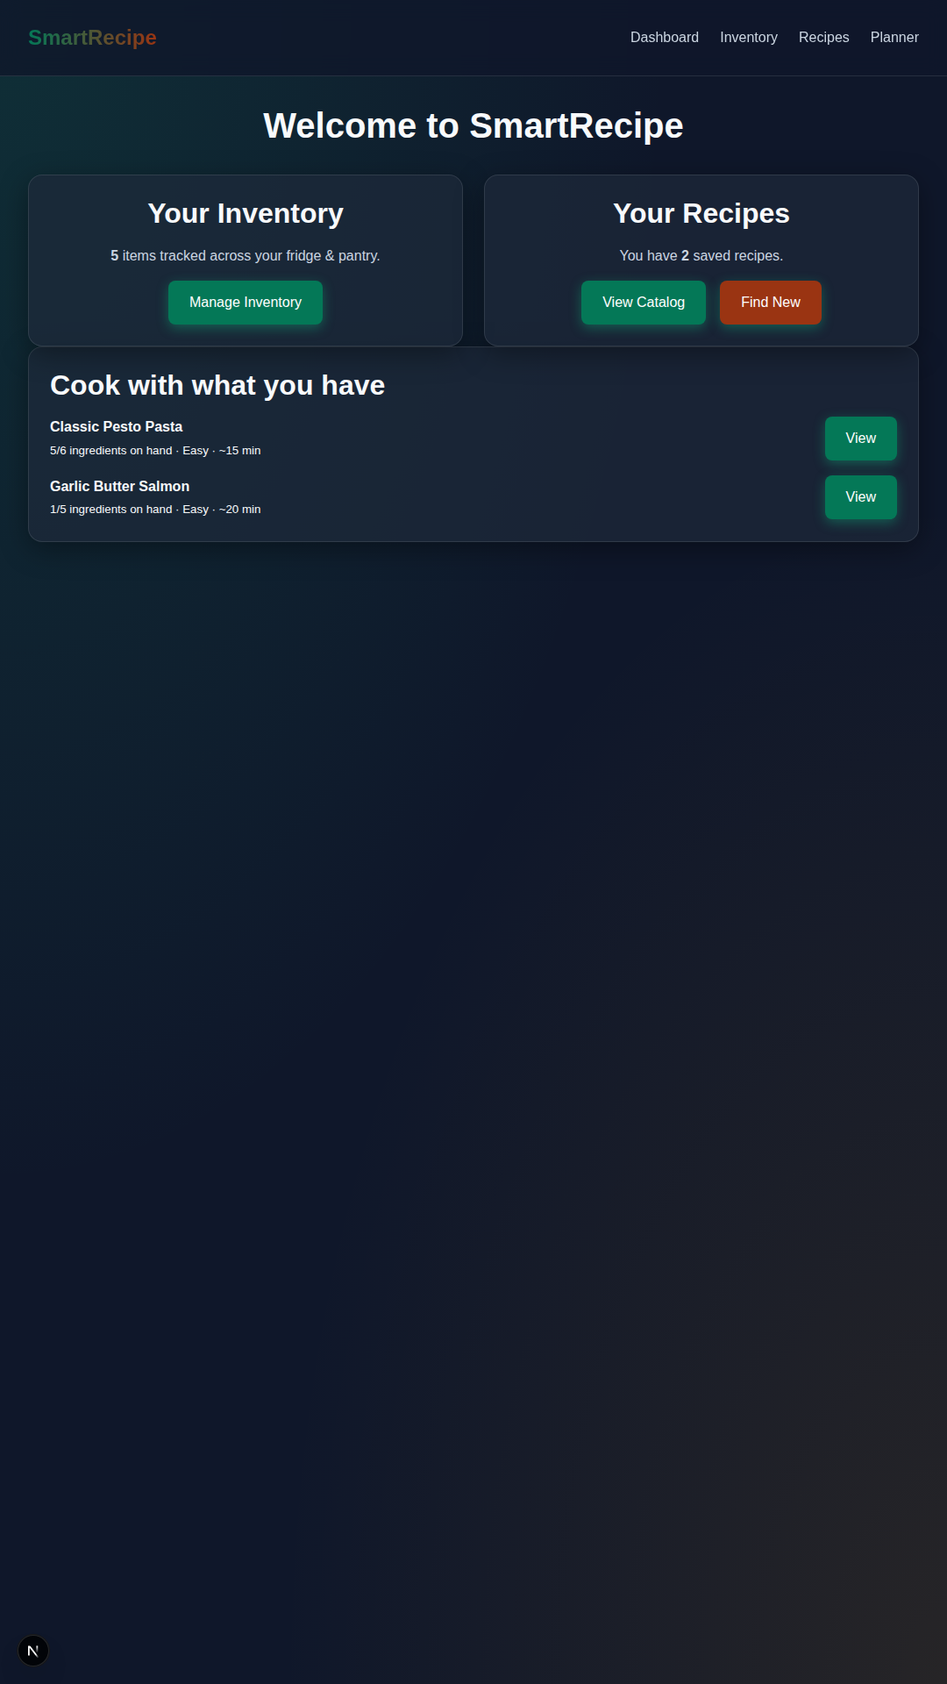
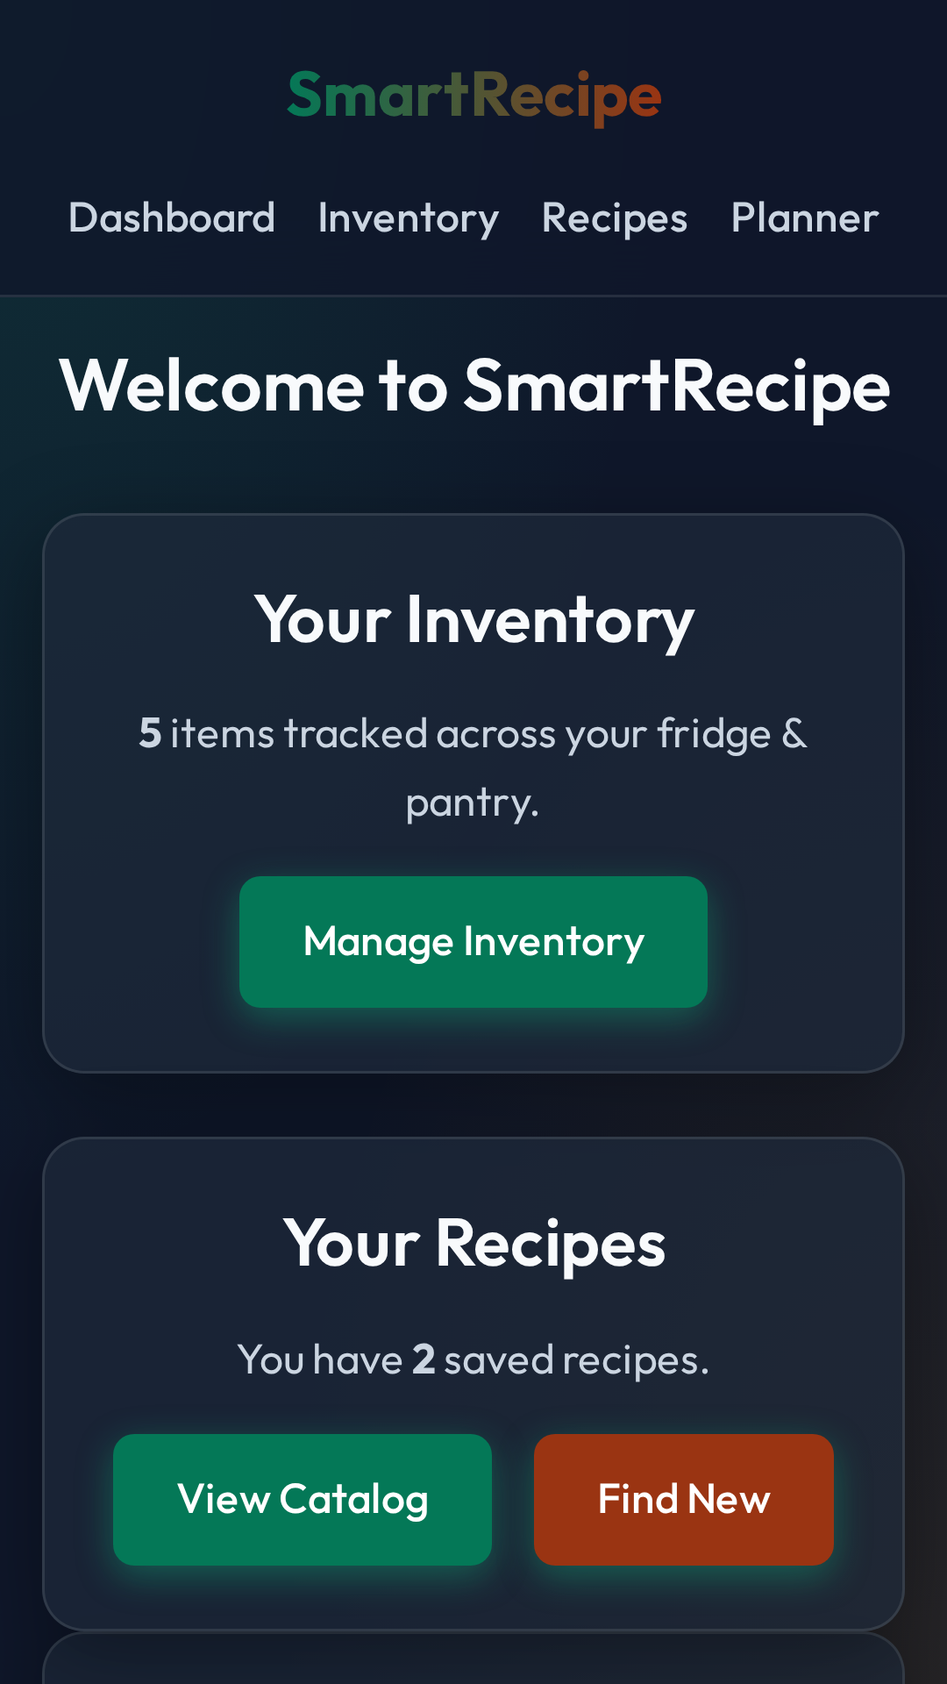
smart-recipe-app: prepare the first Google Play release
- Owner-only release checklist at the top of PLAY-STORE-DEPLOY.md (keystore, 4 secrets, Play Console intake, closed test, 12 testers x 14 days, production), plus a 2026-11-02 audit section: checks rerun, Google's closed-testing rule as its help page states it today, and the minimum-functionality review-risk verdict.
- Fix the WebView backup exclusion: domain="root", not "file" (same fix elder-care-planner already has).
- _android-bundle.yml: add a secret_suffix input so an app signs with its own ANDROID_*_<APP> secrets, as the deploy guide documents; Smart Recipe's trigger passes _SMART_RECIPE_APP. Since the 2026-10-14 consolidation every app read the unsuffixed (MoodDiner) names, so the documented per-app secrets would have produced an unsigned bundle.
- Store listing: drop the "edit" claim (no edit UI); rewrite the Data safety answer with a recommended in-app-search-history declaration. Privacy policy: drop "recipes you write yourself", add the result-photo requests.
- Recapture the screenshots from the Capacitor build at a phone viewport (old set was next dev at desktop width, with the dev-tools badge); add store-listing/capture-screenshots.mjs and a 5th search screenshot.

Verified locally: harness-status --gate, harness-learn, check-doc-claims --gate, check-loop-stats, check-peer-consistency all exit 0; test-app.mjs smart-recipe-app ALL PASSED (Vitest 56/56, Playwright 7/7); npm run build:capacitor exit 0.

diff --git a/projects/smart-recipe-app/public/privacy.html b/projects/smart-recipe-app/public/privacy.html
@@ -32,7 +32,7 @@
   <body>
     <main>
       <h1>Smart Recipe Privacy Policy</h1>
-      <p class="updated">Last updated: 7 August 2026</p>
+      <p class="updated">Last updated: 2 November 2026</p>
 
       <div class="summary">
         <p style="margin:0">
@@ -74,7 +74,7 @@
             </tr>
             <tr>
               <td><code>smart_recipe_recipes</code></td>
-              <td>Recipes you've saved, including any pulled in from a search and any you write yourself.</td>
+              <td>Recipes you've saved, including the two sample recipes the app starts with.</td>
             </tr>
             <tr>
               <td><code>smart_recipe_meal_plan</code></td>
@@ -85,7 +85,7 @@
       </div>
 
       <h2>Third-party connections</h2>
-      <p>The app has no analytics and no ad networks. One thing reaches the network, only when you run a recipe search:</p>
+      <p>The app has no analytics and no ad networks. Only the recipe search reaches the network, and only when you use it:</p>
       <ul>
         <li>
           <strong>Recipe search</strong> sends the search text you type to TheMealDB
@@ -93,6 +93,12 @@
           <a href="https://www.themealdb.com/api.php" rel="noopener noreferrer">TheMealDB's API terms</a>.
           No inventory, saved recipes, or meal plan data is sent with the request — only
           the search text.
+        </li>
+        <li>
+          <strong>Search result photos</strong> are loaded from TheMealDB's image server
+          while you look at search results. Like any image on the web, that request
+          includes your device's IP address and browser details; it carries no app data.
+          Saved recipes are shown without photos, so viewing them makes no request.
         </li>
       </ul>
 

diff --git a/PLAY-STORE-DEPLOY.md b/PLAY-STORE-DEPLOY.md
@@ -1,8 +1,71 @@
 # Play Store Deployment Guide — All 5 Android Apps
 
-> **Status: last audited 2026-08-20.** Everything that lives in this repository
-> is in place and gate-green. The remaining blockers (keystore secrets, Play
-> Console intake) are external and covered in [§3 – The CI workflow](#3-the-ci-workflow-the-path-we-chose).
+> **Status: Smart Recipe re-audited 2026-11-02 and chosen to ship first** (see §0 and §6). The
+> other four apps were last audited 2026-08-20. The remaining blockers (keystore, secrets, Play
+> Console, testers) are owner-only.
+
+## 0. Smart Recipe first release — owner-only checklist
+
+Agents must not do any of these steps: they create or handle signing keys, GitHub secrets, or the
+Play Console account. Do them in order. Commands assume a shell in a folder outside the repo, so the
+keystore never lands in the working tree.
+
+1. **Create the upload keystore** (any machine with a JDK; it prompts for a password — use one
+   password for both prompts and store it in your password manager). Back up the `.jks` file
+   somewhere safe; it is the only key that can sign Smart Recipe updates.
+   ```bash
+   keytool -genkeypair -v -keystore smart-recipe-upload.jks -alias upload -keyalg RSA -keysize 2048 -validity 10000 -dname "CN=Smart Recipe, OU=Mobile, O=Agentic App Harness, C=US"
+   ```
+2. **Add the 4 GitHub secrets** (the two password commands prompt; paste the keystore password):
+   ```bash
+   base64 -w0 smart-recipe-upload.jks | gh secret set ANDROID_KEYSTORE_BASE64_SMART_RECIPE_APP --repo jf1shh/agentic-app-harness
+   ```
+   ```bash
+   gh secret set ANDROID_KEYSTORE_PASSWORD_SMART_RECIPE_APP --repo jf1shh/agentic-app-harness
+   ```
+   ```bash
+   gh secret set ANDROID_KEY_PASSWORD_SMART_RECIPE_APP --repo jf1shh/agentic-app-harness
+   ```
+   ```bash
+   gh secret set ANDROID_KEY_ALIAS_SMART_RECIPE_APP --repo jf1shh/agentic-app-harness --body upload
+   ```
+   Then build a signed bundle and check the run summary says **"Built a SIGNED release bundle."**:
+   ```bash
+   gh workflow run android-release-smart-recipe-app.yml --repo jf1shh/agentic-app-harness --ref master
+   ```
+   Download the `.aab` from that run (`gh run list --workflow android-release-smart-recipe-app.yml
+   --repo jf1shh/agentic-app-harness -L 1` gives the run id):
+   ```bash
+   gh run download RUN_ID --repo jf1shh/agentic-app-harness -n smart-recipe-app-release-aab
+   ```
+3. **Play Console intake** (play.google.com/console). Every answer is in
+   `projects/smart-recipe-app/store-listing/README.md`.
+   - **Home → Create app**: name *Smart Recipe*, default language English (US), App, Free.
+   - **Grow users → Store presence → Main store listing**: short + full description, icon
+     (`icon-512.png`), feature graphic, the 5 phone screenshots. Category: **Food & Drink**.
+   - **Policy and programs → App content**: Privacy policy
+     `https://jf1shh.github.io/agentic-app-harness/smart-recipe-app/privacy.html`; App access →
+     *All functionality is available without special access*; Ads → *No*; Content rating → the IARC
+     answers; Target audience → 13+ (not designed for children); Data safety → the README's
+     **option 1** (declares in-app search text) unless you prefer option 2.
+   - **Test and release → Setup → App signing**: accept Play App Signing (Google holds the app
+     signing key; your keystore from step 1 is the *upload* key).
+4. **Upload to closed testing**: **Test and release → Testing → Closed testing → Create track** (or
+   use the default *Closed testing - Alpha*) → **Testers** tab → add an email list → **Create new
+   release** → upload the `.aab` → **Next → Save → Start rollout**. Choose countries on the
+   **Countries / regions** tab.
+5. **Recruit 12 testers**: copy the opt-in link from the **Testers** tab and send it to 12+ real
+   people with Android phones. Each one opens the link, taps *Become a tester*, then installs from
+   Play. Recruit 15–20 so one dropout does not reset the count.
+6. **Wait 14 days**: the 12 must stay opted in for 14 days in a row. Ask them to use all four
+   screens (inventory, recipes, search, planner) and send feedback — the production application
+   asks about both. Meanwhile, read **Test and release → Testing → Pre-launch report** and fix
+   anything it flags.
+7. **Apply for production**: **Dashboard → Apply for production** (shows once step 6 is met).
+   Answer the three parts (closed test, the app, production readiness). Google says review "usually
+   takes seven days or less". After approval: **Test and release → Production → Create new release**.
+
+---
 
 This repo ships **5 Android apps** via Capacitor. Each app has a committed
 `android/` Gradle container and its own GitHub Actions workflow that produces an
@@ -52,9 +115,19 @@ is done, what is verified, and the exact end-to-end release workflow.
 
 **Known caveats (not blockers once the steps in §3 are done):**
 
-- The release workflows have only ever run on **pull requests** (all green) —
-  no push-to-`main` run has produced an artifact yet. The first push or manual
-  dispatch will produce the first real AAB.
+- *(Updated 2026-11-02.)* Smart Recipe's workflow has now run on a push to
+  `master` (2026-10-20, green) and produced an AAB artifact — **unsigned**,
+  because no keystore secrets exist yet. (Recent failing runs of the same
+  workflow on 2026-10-20/26 and 2026-11-02 were all on Dependabot PRs for
+  `elder-care-planner`, failing at `npm install` with
+  `Cannot read properties of null (reading 'edgesOut')` — a lockfile problem
+  in those PRs, not in Smart Recipe.)
+- *(Found 2026-11-02.)* The backup-exclusion row above was wrong for four
+  apps: their rules excluded `domain="file" path="app_webview/"`, which is
+  `files/app_webview/`, while the WebView keeps its storage under the app root
+  (`root/app_webview/`). Elder Care Planner was already fixed; Smart Recipe is
+  fixed in the 2026-11-02 PR. MoodDiner, SmartPack and LexiVault still carry
+  the wrong domain.
 - **MoodDiner screenshots `1-home.png` and `2-weather-engine.png`** were
   captured in a network-restricted sandbox, so their Unsplash restaurant photos
   render blank. Recapture before upload:
@@ -141,6 +214,14 @@ i.e. the four secret names get the suffix shown, e.g.
 `ANDROID_KEYSTORE_BASE64_SMART_RECIPE_APP` etc. Each `…_BASE64` value is the
 base64 blob from §3.1.
 
+> **2026-11-02:** since the 2026-10-14 consolidation into the shared
+> `_android-bundle.yml`, the suffix is applied only when the app's trigger
+> workflow passes `secret_suffix:`. Smart Recipe's does
+> (`secret_suffix: _SMART_RECIPE_APP`); MoodDiner needs none. **SmartPack,
+> LexiVault and Elder Care Planner do not pass it yet**, so today they would
+> read MoodDiner's unsuffixed secrets — add the one `secret_suffix:` line to
+> each trigger before setting their secrets.
+
 **Verify signing works:** run the workflow (§3.3) and check the run summary —
 it must print "Built a SIGNED release bundle." If it prints UNSIGNED, one of
 the four secrets is missing or empty.
@@ -166,13 +247,15 @@ apps:
 
 ### 3.4 Trigger a build & upload
 
-1. Push to `main` (touching the app's files) — **or** go to
+1. Push to `master` (touching the app's files) — **or** go to
    **Actions → Android Release Bundle (<app>) → Run workflow** (uses
    `workflow_dispatch`; no push needed).
 2. Wait for the run to finish; download the `.aab` from the run's **Artifacts**
    section (artifact names: `<app>-release-aab`).
 3. Play Console → the app → **Production** (or **Internal testing** first) →
-   **Create new release** → upload the `.aab` → review → roll out.
+   **Create new release** → upload the `.aab` → review → roll out. A new
+   *personal* developer account cannot use Production until it passes the
+   closed-test rule in §6.2.
 
 ### 3.5 Subsequent releases
 
@@ -221,3 +304,76 @@ Then open `projects/<app>/android` in Android Studio and either:
 
 Remember to bump `versionCode` for every upload (local default is 1). The CI
 path (§3) does all of this automatically and is the recommended route.
+
+---
+
+## 6. Smart Recipe release audit (2026-11-02)
+
+### 6.1 Checks rerun
+
+| Check | Result on 2026-11-02 |
+|---|---|
+| `node scripts/harness-status.mjs --gate` | PASSED — 0 blocking, 1 informational finding |
+| `node scripts/test-app.mjs smart-recipe-app` | ALL PASSED — lint, type-check, Vitest 56/56, Playwright + axe 7/7 |
+| `npm run build:capacitor` (in `projects/smart-recipe-app`) | exit 0, static export to `.next-capacitor/` |
+| Privacy policy URL | HTTP 200 |
+| Latest push run of `android-release-smart-recipe-app.yml` | green (2026-10-20, `master`), AAB artifact uploaded, **unsigned** |
+| `AndroidManifest.xml` permissions | `INTERNET` only |
+| Network calls in the app | TheMealDB search (`search.php?s=<text>`) on Search only, plus result photos from TheMealDB while results are shown |
+| On-device storage | three `localStorage` keys (inventory, recipes, meal plan) |
+
+Fixed in the same PR: the WebView backup exclusion (wrong domain, §1), the per-app secret names
+(§3.2 note), listing copy that claimed recipes can be edited (they cannot), the privacy policy's
+"recipes you write yourself" (no such feature) and its missing line about result photos, and the
+screenshots (recaptured; see the store-listing README).
+
+### 6.2 Google Play testing rule for new personal accounts
+
+**Checked 2026-11-02** on Google's page *App testing requirements for new personal developer
+accounts* (support.google.com/googleplay/android-developer/answer/14151465). It says:
+
+- It applies to **personal** developer accounts **created after November 13, 2023**. Production
+  (and pre-registration) stay locked until the requirement is met.
+- You must run a **closed test** with **at least 12 testers** who have been **opted in continuously
+  for at least 14 days**. At least 12 must be opted in when you apply; a tester who opts out before
+  14 days does not count.
+- You then **apply for production** from the Dashboard. The form has three parts: about your closed
+  test (recruiting, engagement, feedback), about your app (audience, value, expected installs), and
+  production readiness (what changed after testing). Review "usually takes seven days or less".
+- The page does **not** mention organization accounts. The exemption for organization (D-U-N-S
+  verified) accounts is our understanding from Google's wider account-type guidance, not something
+  this page states — check the account type in Play Console before counting on it.
+- The page does not say "real people" in those words, but testers join through a Google account
+  opt-in link and install through Play, and the production form asks how they engaged and what
+  feedback they gave. **Treat testers as 12+ real people on real phones.** Agents can do testing
+  *work* — Play's pre-launch report (automated crawls on Google's devices), the Playwright suite,
+  scripted UI runs — but none of that counts toward the 12. Do not use bot or emulator accounts to
+  pad the number.
+
+### 6.3 Review risk: "minimum functionality" / "just a web wrapper"
+
+**Verdict: low risk.** Google's concern is apps that only load a website, or do too little to be
+useful. Smart Recipe is neither:
+
+- The whole UI ships inside the APK (static export synced by `cap sync`) and loads from
+  `https://localhost` in the WebView. It never loads a remote site.
+- Four real tools (pantry tracker, recipe catalog with inventory matching, recipe search, meal
+  planner). Three of the four work fully offline; data stays on the device.
+- No login wall, no dead ends: every in-app link is an internal `next/link` route (checked in the
+  source on 2026-11-02), and the two external URLs (privacy policy, TheMealDB API terms) return 200.
+
+What would lower the risk further (none blocks submission):
+
+1. **Friendlier offline search.** With no network, search shows "Failed to search recipes." A
+   message like "You're offline — search needs internet. Your saved recipes still work." reads as
+   a deliberate app, not a broken page.
+2. **Hide developer wording.** The planner's recipe picker shows file slugs
+   (`classic-pesto-pasta`), and recipe cards say "View Recipe Markdown" and show raw markdown. Show
+   the recipe title and rendered text instead.
+3. **Native feel.** The top text-link nav bar looks like a website. A bottom tab bar, and checking
+   that the Android back button steps back through screens instead of closing the app, would feel
+   native. Test both on a real phone during the closed test.
+4. **Listing copy.** The full description ends "Works as an installed app or straight from your
+   browser." Dropping that line on Play avoids inviting the "it's a website" reading.
+5. **Pre-launch report.** Read it before applying for production; fix any crash or accessibility
+   item it lists.

diff --git a/projects/smart-recipe-app/store-listing/README.md b/projects/smart-recipe-app/store-listing/README.md
@@ -10,12 +10,17 @@ and real UI, copy checked against what the app actually does, Q&A answers cross-
 |---|---|---|
 | `icon-512.png` | 512×512 | Recreated at full resolution from the real launcher icon (rust/orange `#c2410c` background, white "SR" monogram) — no existing web-facing icon file to reuse (`public/` only had the default `create-next-app` placeholder SVGs). |
 | `feature-graphic.png` | 1024×500 | Built from the same icon + brand color. No store badges, no fabricated ratings. |
-| `screenshots/1-dashboard.png` | 1080×1920 | The dashboard's default state — a stocked pantry (basil, garlic, olive oil, parmesan, pine nuts) driving a real "Cook with what you have" recommendation. |
-| `screenshots/2-inventory.png` | 1080×1920 | The fridge/pantry tracker, add-item form and current stock list. |
+| `screenshots/1-dashboard.png` | 1080×1920 | The dashboard's default state — inventory and saved-recipe counts from the seed data. |
+| `screenshots/2-inventory.png` | 1080×1920 | The fridge/pantry tracker's add-item form. |
 | `screenshots/3-recipes.png` | 1080×1920 | The saved recipe catalog, showing the inventory-overlap match line on a recipe that's cookable right now. |
-| `screenshots/4-planner.png` | 1080×1920 | The meal planner, with a recipe scheduled against a real date. |
+| `screenshots/4-planner.png` | 1080×1920 | The meal planner's schedule form, pre-filled with today's date. |
+| `screenshots/5-search.png` | 1080×1920 | A live TheMealDB search for "pasta", with the result's real photo. |
 
-All four screenshots are real captures from the running app's default seed data, not mockups.
+All five are real captures, not mockups. Recaptured 2026-11-02 by `capture-screenshots.mjs` from the
+Capacitor build (the bundle the Android app ships) at a phone viewport — 360×640 CSS px at 3×. The
+August set was taken from `next dev` at a 1080 px-wide desktop viewport, so it showed the desktop
+layout and the Next.js dev-tools badge, and it predated the September/October UI changes.
+Rerun the script after any visible UI change (usage is in its header).
 
 ## Category
 **Food & Drink.** Recipe management, pantry tracking, and meal planning are squarely in this
@@ -43,7 +48,7 @@ they are to make.
 
 SEARCH AND SAVE REAL RECIPES
 Look up recipes from a public recipe database and save the ones you like — each one is normalized
-into your own local recipe catalog, so it's yours to keep, edit, or reference offline afterward.
+into your own local recipe catalog, so it's yours to keep and read offline afterward.
 
 PLAN MEALS BY DAY
 Assign your saved recipes to specific dates and meal types, so "what's for dinner" is answered
@@ -56,7 +61,7 @@ search text you type when you look up a recipe — no inventory or meal-plan dat
 
 Works as an installed app or straight from your browser.
 ```
-(1,324 chars)
+(1,313 chars)
 
 ## Content rating questionnaire (IARC) — answers to select
 | Question | Answer | Why |
@@ -77,11 +82,31 @@ catalog, not just the two seeded recipes) can surface content the app didn't aut
 disclose defensively than have the rating challenged later over a search result.
 
 ## Data safety form — answers to select
-**"No data collected"** across every category. `public/privacy.html` documents this precisely: no
-accounts, no analytics or ad SDK, and the only outbound request is the search text you type,
-triggered only when you run a recipe search — no inventory, saved-recipe, or meal-plan data
-travels with it. `smart_recipe_inventory`, `smart_recipe_recipes`, and `smart_recipe_meal_plan`
-all stay in local storage on-device.
+
+**Rechecked 2026-11-02 against the code and Google's Data safety help page
+(support.google.com/googleplay/android-developer/answer/10787469).** Two defensible answers; pick one:
+
+1. **Recommended — declare search text.** Collected: **App activity → In-app search history**.
+   Processed ephemerally: **Yes**. Required or optional: **Optional** (only sent when the user runs a
+   search). Purpose: **App functionality**. Shared: **No** — Google exempts a transfer to a third party
+   "based on a specific user-initiated action", and the search only runs when the user presses Search.
+   Everything else: not collected.
+2. **"No data collected"** (the August answer). The developer runs no server and never receives the
+   search text, which is the reading `public/privacy.html` takes.
+
+Why option 1: Google's help page defines "collect" as "transmitting data from your app off a user's
+device" — it does not say *to the developer*. The search text does leave the device (to
+`www.themealdb.com`), so a reviewer reading the definition literally can call "No data collected"
+inaccurate. Over-declaring a small, optional, ephemeral item costs nothing; a mismatch can block review.
+Either way, the facts the form rests on are unchanged: no accounts, no analytics or ad SDK, no
+location, and the only outbound requests are (a) the search text the user types, sent to TheMealDB
+only on Search, and (b) the result photos, loaded from TheMealDB's image server while results are on
+screen. `smart_recipe_inventory`, `smart_recipe_recipes`, and `smart_recipe_meal_plan` stay in local
+storage on-device and are excluded from Android backup (`android/app/src/main/res/xml/`).
+
+Encryption in transit: **Yes** (both requests are HTTPS). Users can request deletion: not applicable
+under option 2; under option 1 answer **No** — nothing is retained by the developer to delete
+(uninstalling or clearing app data removes everything stored on-device).
 
 Worth naming for the reviewer, same as the content-rating caveat above: the recipe *search*
 endpoint (`www.themealdb.com`) is a live third-party API outside this app's control, so while the

diff --git a/HANDOFF.md b/HANDOFF.md
@@ -31,3 +31,17 @@ Jared confirmed the October 10 LinkedIn wording as the source for this update. R
 Verification on the isolated refresh checkout: full `node scripts/test-app.mjs portfolio-hub` with Node 20.20.2/npm 10.8.2 passed lint, type check, 65 unit tests and 13 browser tests including automated accessibility and the production Pages subpath. The dependency audit reported existing advisories (non-blocking in this gate); dependency versions were not changed. A mutation restoring the old App.tsx title/link failed both updated contact tests; restoring the final file passed 2/2. The six-app VERIFY scan reported 0 blocking findings and 1 existing informational LexiVault drift finding; LEARN and documentation-claim gates passed.
 
 Next action: human review/approval and merge of the public portfolio alignment PR after its required checks pass; then verify Pages deployment and rendered public links. No new runtime, retrieval, release, or application feature was introduced. Earlier handoff evidence above is historical.
+
+## Smart Recipe Play release prep — 2026-11-02
+
+Branch `claude/play-release-smart-recipe-121990`. Smart Recipe is the first app to ship on Google
+Play. Agent-side work is done; see `PLAY-STORE-DEPLOY.md` §0 (owner-only checklist, in order) and §6
+(checks rerun, Google's 12-testers-for-14-days rule as checked today, and the low "web wrapper"
+review-risk verdict). Fixed here: Smart Recipe's WebView backup exclusion (`root`, not `file`), the
+reusable Android workflow's per-app secret suffix (`secret_suffix`, passed only by Smart Recipe's
+trigger so far), the store-listing and privacy-policy claims, and the screenshots (recaptured at
+phone size by `store-listing/capture-screenshots.mjs`).
+
+Open, not done here: the same backup-domain fix for MoodDiner, SmartPack and LexiVault; the
+`secret_suffix:` line for SmartPack, LexiVault and Elder Care Planner; the in-app polish listed in
+`PLAY-STORE-DEPLOY.md` §6.3. Keystore, secrets, Play Console and testers are owner-only.
